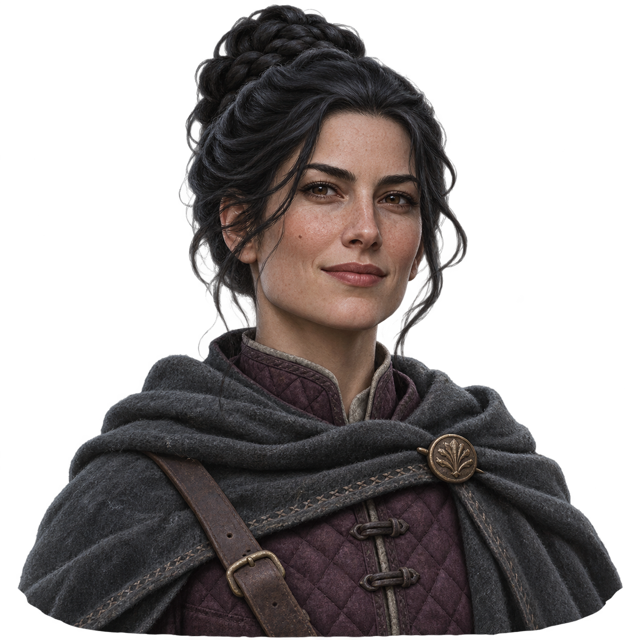
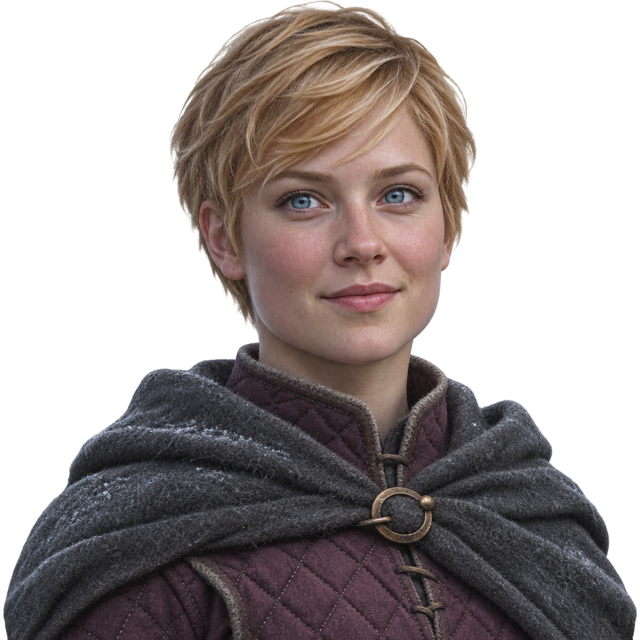
fix(frontend): distinguish fourth custom Houses portrait from Maren #205

diff --git a/frontend/public/assets/avatars/3d/GENERATED-V13.md b/frontend/public/assets/avatars/3d/GENERATED-V13.md
@@ -2,6 +2,12 @@
 
 Refs #205. Восемь отдельных изображений подготовлены встроенным imagegen 11.11.2026: четыре готовых героя и четыре собственных образа (два мужских, два женских). Все PNG уменьшены до 640 × 640 px с сохранением прозрачности. Исходные обложки и другие миры не менялись.
 
+## Замена четвёртого собственного образа
+
+После замечания о сходстве с Марен файл `houses-woman-2-v13.png` заменён: молодая светловолосая путешественница с короткой стрижкой, голубыми глазами и округлым лицом. Марен и остальные семь образов сохранены. Имя файла оставлено прежним по прямому запросу замены, чтобы обновился также уже выбранный штатный образ. Генерация — встроенный imagegen, настоящая прозрачность сохранена.
+
+Актуальный промпт для этого файла: Use case: stylized-concept. One new adult female customizable character avatar for a dark medieval fantasy game. Genuinely transparent background, isolated square head-and-shoulders portrait with full hair and both shoulders inside frame. Premium painterly realistic character illustration, cold silver-blue cinematic lighting, tactile wool and leather, matching a frosty northern medieval world. A distinctly youthful adult woman, 24 years old, round soft face, small straight nose, light eyebrows, bright pale blue eyes, short straight honey-blonde pixie haircut with side-swept fringe, no braids or bun. Friendly alert expression, clean unscarred face. This must look entirely different from a mature angular brunette with brown side braid: different skull/face silhouette, nose, eyes, hairstyle and age. Muted plum quilted tunic, dark grey wool travel cloak, plain bronze clasp. No crown, royal heraldry, modern clothing, jewellery, weapons, floor, backdrop, checkerboard pixels, border or text. Original fictional face, not a real actor.
+
 Готовые герои больше не используют общие muse/sage/scout/spark. Джон — тёмноволосый северянин в чёрном меху; Джеймс — светловолосый рыцарь Дома Львов; Диана — серебристые косы и драконий плащ; Марен — каштановая коса и практичная одежда хозяйки переправы. Пользовательские фотографии и ранее выбранные собственные образы не переписываются. Сюжет, биографии, цели и навыки не менялись.
 
 ## Промпты
